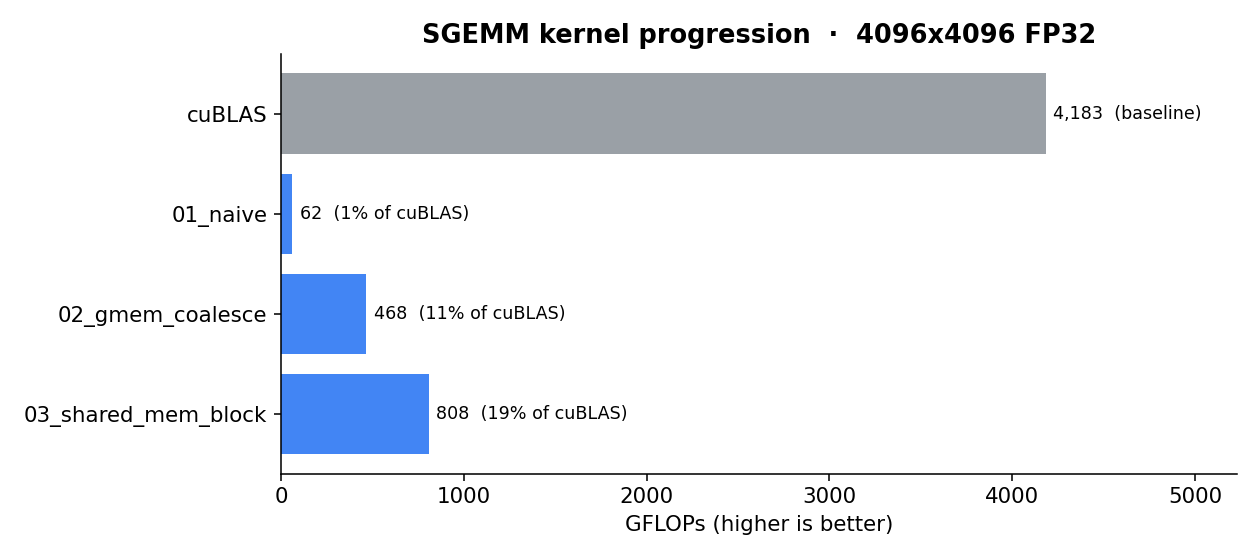
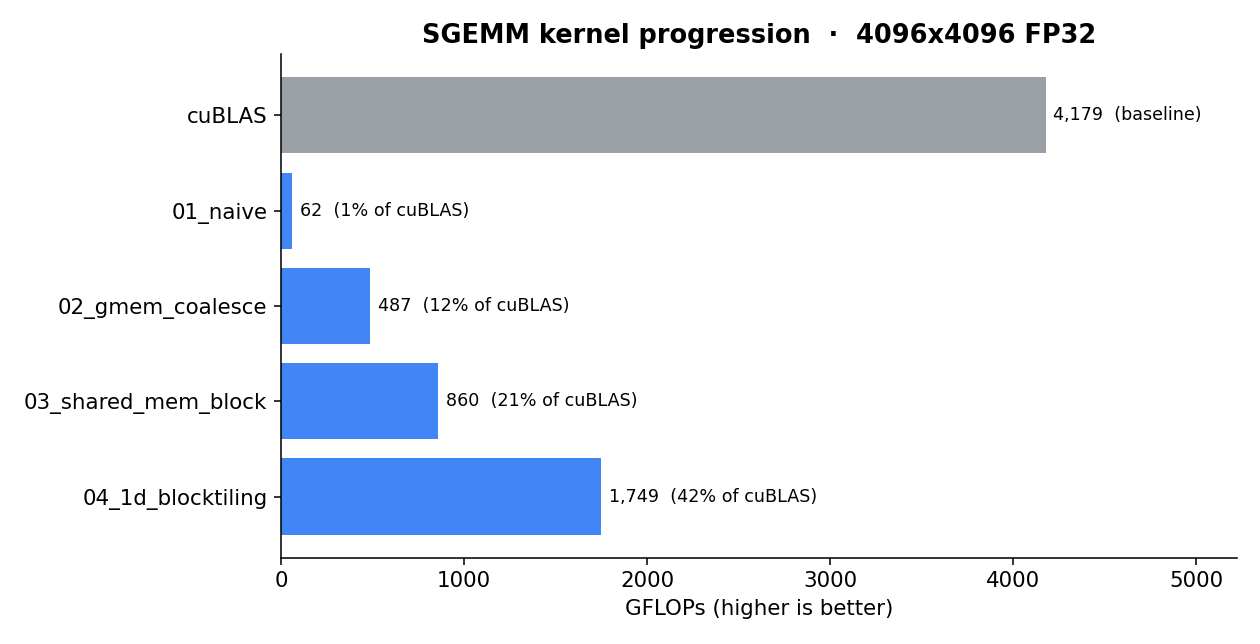
kernel 4 logging

diff --git a/cuda-sgemm/README.md b/cuda-sgemm/README.md
@@ -11,8 +11,8 @@ Working through Simon Boehm's [CUDA matmul optimization post](https://siboehm.co
 | 0 | cuBLAS | 4211 | 100% |
 | 1 | naive | 62 | 1.5% |
 | 2 | gmem coalesce | 474 | 11% |
-| 3 | shared-mem blocking | 808 | 19% |
-| 4 | 1D blocktiling | — | — |
+| 3 | shared-mem blocking | 860 | 21% |
+| 4 | 1D blocktiling | 1749 | 42% |
 | 5 | 2D blocktiling | — | — |
 | 6 | vectorized | — | — |
 | 9 | autotuning | — | — |
@@ -34,7 +34,10 @@ But the bigger realization is that matmul doesn't *have* to be memory-bound at a
 By making each warp's 32 threads read contiguous memory, one fetch now feeds many threads at once instead of mostly wasting bytes — so each warp does far more useful work per byte fetched. More useful computations per byte retrieved in a given interval bumped GFLOPs from ~62 to ~474 (~8x which logically makes sense, ~11% of cuBLAS).
 
 ### Kernel 3 — Shared memory blocking (tiling)
-k2 fixed the access *pattern*, but each thread still re-read its whole row/col from global. Now the block cooperatively stages a 32×32 tile of A and B into shared memory (fast on-chip), and every thread reuses each staged value ~32x before we slide to the next tile along K. This is the first kernel to pull the *reuse* lever — cutting total global-memory traffic ~32x (each value fetched once per tile instead of re-fetched per use), not just reading more efficiently. GFLOPs: ~474 → ~___ (fill in after running).
+k2 fixed the access *pattern*, but each thread still re-read its whole row/col from global. Now the block cooperatively stages a 32×32 tile of A and B into shared memory (fast on-chip), and every thread reuses each staged value ~32x before we slide to the next tile along K. This is the first kernel to pull the *reuse* lever — cutting total global-memory traffic ~32x (each value fetched once per tile instead of re-fetched per use), not just reading more efficiently. GFLOPs: ~474 → ~860 (~21% of cuBLAS).
+
+### Kernel 4 — 1D blocktiling
+k3 was stalling on *shared* memory: every FMA needed 2 shared loads. Now each thread computes TM=8 results (a column) instead of 1, so one Bs value loaded from shared memory gets reused across all 8 (multiplied by 8 different As values held in registers). That's ~8 FMAs per shared load instead of 1 per 2 — arithmetic intensity way up, shared-memory stalls way down. 860 → 1749 GFLOPs (~2x, ~42% of cuBLAS).
 
 ## Run
 